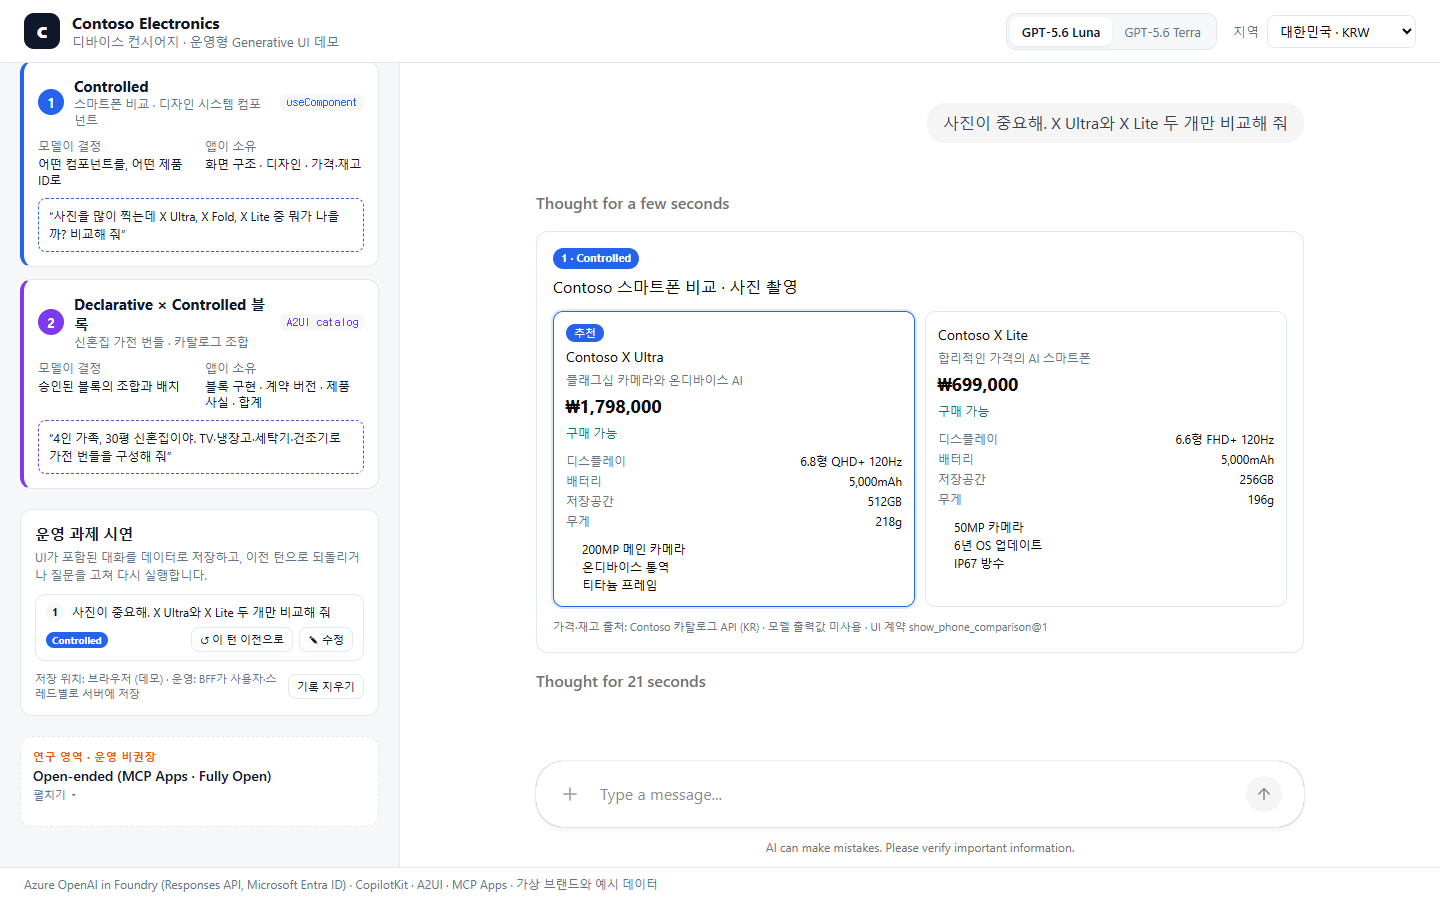
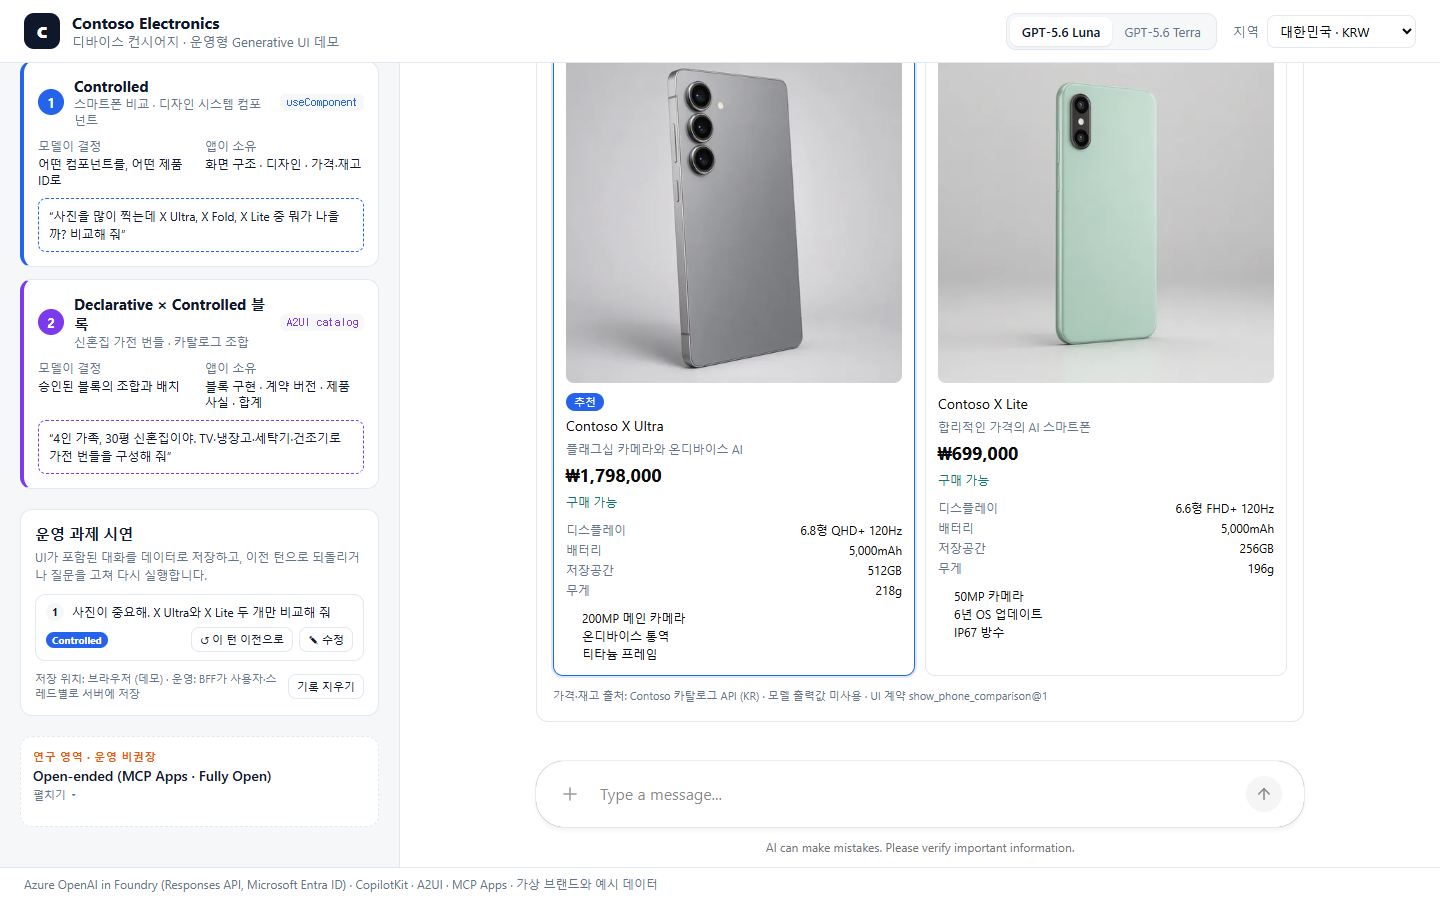
feat(docs): add unbranded product imagery to genui demo cards
- generated 11 logo-free product renders with Foundry gpt-image-2
- catalog API serves image paths; model never supplies image URLs
- phone comparison and bundle tiles show product images

🖼 - Generated by Copilot

Changed region(s): [[0.375, 0.0622, 0.9062, 0.7778], [0.8125, 0.4667, 0.9062, 0.6222]]

diff --git a/docs/services/application-development/agentic-app-genui/samples/genui-concierge/web/src/a2ui/renderers.tsx b/docs/services/application-development/agentic-app-genui/samples/genui-concierge/web/src/a2ui/renderers.tsx
@@ -16,13 +16,19 @@ function ProductTile({ productId, reason }: { productId: string; reason?: unknow
   const [p] = state.products;
   return (
     <article className="gu-tile">
-      <span className="gu-tile-cat">{CATEGORY_LABELS[p.category]}</span>
-      <h4>{p.name}</h4>
-      <p className="gu-muted">{text(reason) || p.tagline}</p>
-      <div className="gu-tile-foot">
-        <strong>{p.priceLabel}</strong>
-        {p.energyGrade && <span className="gu-grade">에너지 {p.energyGrade}</span>}
-        {!p.inStock && <span className="gu-stock is-out">미출시</span>}
+      <div className="gu-tile-media">
+        {/* eslint-disable-next-line @next/next/no-img-element */}
+        <img src={p.image} alt={`${p.name} 제품 이미지`} loading="lazy" width={160} height={160} />
+      </div>
+      <div className="gu-tile-body">
+        <span className="gu-tile-cat">{CATEGORY_LABELS[p.category]}</span>
+        <h4>{p.name}</h4>
+        <p className="gu-muted">{text(reason) || p.tagline}</p>
+        <div className="gu-tile-foot">
+          <strong>{p.priceLabel}</strong>
+          {p.energyGrade && <span className="gu-grade">에너지 {p.energyGrade}</span>}
+          {!p.inStock && <span className="gu-stock is-out">미출시</span>}
+        </div>
       </div>
     </article>
   );

diff --git a/docs/services/application-development/agentic-app-genui/samples/genui-concierge/web/src/app/globals.css b/docs/services/application-development/agentic-app-genui/samples/genui-concierge/web/src/app/globals.css
@@ -141,7 +141,13 @@ button:focus-visible, select:focus-visible { outline: 2px solid var(--cx-brand);
 .gu-bundle-head { display: grid; gap: 4px; margin-bottom: 4px; }
 .gu-bundle-head h3 { margin: 0; font-size: 16px; }
 .gu-bundle-head p { margin: 0; font-size: 13px; }
-.gu-tile { border: 1px solid var(--cx-line); border-radius: 10px; padding: 12px; display: grid; gap: 4px; background: var(--cx-surface); }
+.gu-tile { border: 1px solid var(--cx-line); border-radius: 10px; padding: 10px; display: grid; grid-template-columns: 96px 1fr; gap: 12px; align-items: center; background: var(--cx-surface); }
+.gu-tile.is-loading, .gu-tile.gu-error { display: block; }
+.gu-tile-media { width: 96px; height: 96px; border-radius: 8px; overflow: hidden; background: #eef0f3; }
+.gu-tile-media img { width: 100%; height: 100%; object-fit: cover; display: block; }
+.gu-tile-body { display: grid; gap: 4px; min-width: 0; }
+.gu-media { aspect-ratio: 1 / 1; border-radius: 8px; overflow: hidden; background: #eef0f3; margin-bottom: 6px; }
+.gu-media img { width: 100%; height: 100%; object-fit: cover; display: block; }
 .gu-tile.is-loading { color: var(--cx-muted); font-size: 12px; }
 .gu-tile h4 { margin: 0; font-size: 14px; }
 .gu-tile p { margin: 0; font-size: 12px; }

diff --git a/docs/services/application-development/agentic-app-genui/samples/genui-concierge/web/src/components/phone-comparison.tsx b/docs/services/application-development/agentic-app-genui/samples/genui-concierge/web/src/components/phone-comparison.tsx
@@ -33,6 +33,10 @@ export function PhoneComparison({ productIds, focus, recommendedId }: Partial<Ph
         <div className="gu-compare" style={{ gridTemplateColumns: `repeat(${catalog.products.length}, minmax(0, 1fr))` }}>
           {catalog.products.map((phone) => (
             <article key={phone.id} className={`gu-phone${phone.id === recommendedId ? " is-recommended" : ""}`}>
+              <div className="gu-media">
+                {/* eslint-disable-next-line @next/next/no-img-element */}
+                <img src={phone.image} alt={`${phone.name} 제품 이미지`} loading="lazy" width={320} height={320} />
+              </div>
               {phone.id === recommendedId && <span className="gu-pill">추천</span>}
               <h4>{phone.name}</h4>
               <p className="gu-muted">{phone.tagline}</p>

diff --git a/docs/services/application-development/agentic-app-genui/samples/genui-concierge/web/src/lib/catalog.ts b/docs/services/application-development/agentic-app-genui/samples/genui-concierge/web/src/lib/catalog.ts
@@ -36,6 +36,8 @@ export interface PricedProduct extends Omit<Product, "prices" | "availableIn"> {
   currency: Currency;
   priceLabel: string;
   inStock: boolean;
+  /** Product image served by this app; the model never supplies image URLs. */
+  image: string;
 }
 
 const CURRENCY: Record<Region, { currency: Currency; locale: string }> = {
@@ -192,6 +194,7 @@ function toPriced(product: Product, region: Region): PricedProduct {
     currency,
     priceLabel: new Intl.NumberFormat(locale, { style: "currency", currency, maximumFractionDigits: 0 }).format(price),
     inStock: availableIn.includes(region),
+    image: `/products/${product.id}.webp`,
   };
 }
 

diff --git a/docs/services/application-development/agentic-app-genui/samples/genui-concierge/web/src/lib/catalog.test.ts b/docs/services/application-development/agentic-app-genui/samples/genui-concierge/web/src/lib/catalog.test.ts
@@ -47,6 +47,12 @@ describe("listProducts", () => {
       expect(listProducts({ region: "KR", category }).length).toBeGreaterThan(0);
     }
   });
+
+  it("serves an app-owned product image for every product", () => {
+    for (const product of listProducts({ region: "US" })) {
+      expect(product.image).toBe(`/products/${product.id}.webp`);
+    }
+  });
 });
 
 describe("isRegion", () => {
